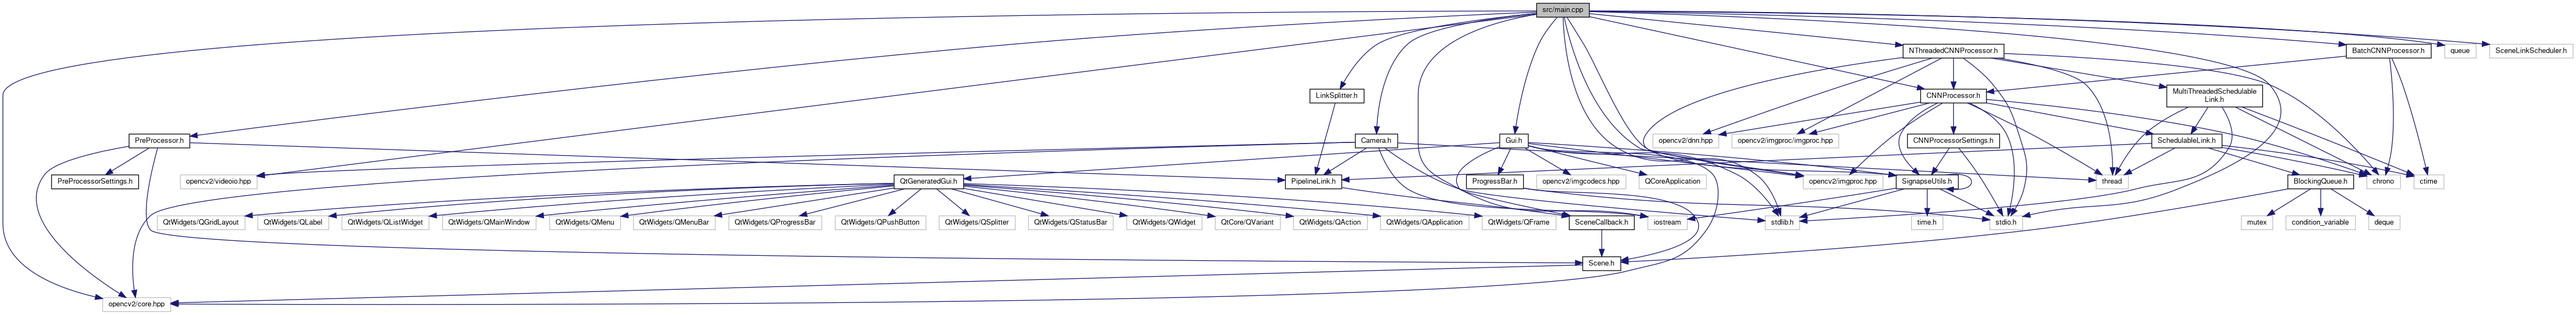
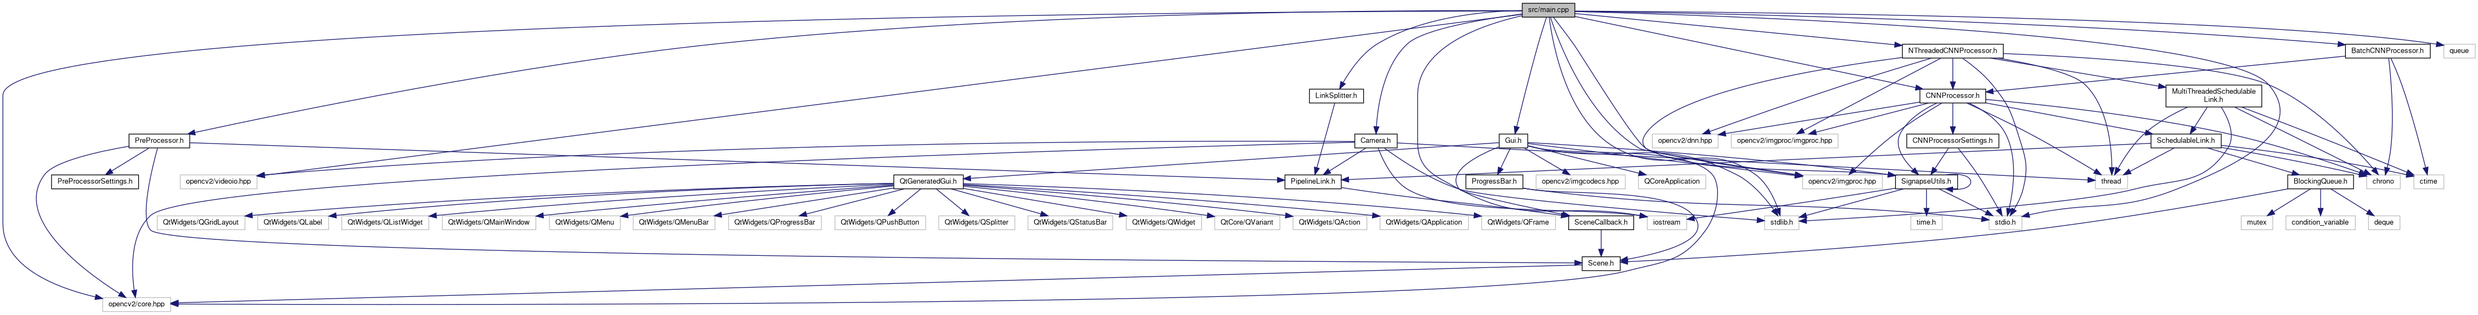
deploy: bf6fdfce21f02ea87e8fade446a89de14401fabb

diff --git a/html/main_8cpp_source.html b/html/main_8cpp_source.html
@@ -84,44 +84,43 @@ $(function() {
 <div class="line"><a id="l00011" name="l00011"></a><span class="lineno">   11</span><span class="preprocessor">#include &quot;stdlib.h&quot;</span></div>
 <div class="line"><a id="l00012" name="l00012"></a><span class="lineno">   12</span><span class="preprocessor">#include &quot;<a class="code" href="Gui_8h.html">Gui.h</a>&quot;</span></div>
 <div class="line"><a id="l00013" name="l00013"></a><span class="lineno">   13</span><span class="preprocessor">#include &quot;<a class="code" href="PreProcessor_8h.html">PreProcessor.h</a>&quot;</span></div>
-<div class="line"><a id="l00014" name="l00014"></a><span class="lineno">   14</span><span class="preprocessor">#include &quot;SceneLinkScheduler.h&quot;</span></div>
-<div class="line"><a id="l00015" name="l00015"></a><span class="lineno">   15</span><span class="preprocessor">#include &quot;<a class="code" href="SignapseUtils_8h.html">SignapseUtils.h</a>&quot;</span></div>
-<div class="line"><a id="l00016" name="l00016"></a><span class="lineno">   16</span><span class="preprocessor">#include &quot;<a class="code" href="LinkSplitter_8h.html">LinkSplitter.h</a>&quot;</span></div>
-<div class="line"><a id="l00017" name="l00017"></a><span class="lineno">   17</span><span class="preprocessor">#include &quot;<a class="code" href="NThreadedCNNProcessor_8h.html">NThreadedCNNProcessor.h</a>&quot;</span></div>
-<div class="line"><a id="l00018" name="l00018"></a><span class="lineno">   18</span><span class="preprocessor">#include &quot;<a class="code" href="BatchCNNProcessor_8h.html">BatchCNNProcessor.h</a>&quot;</span></div>
-<div class="line"><a id="l00019" name="l00019"></a><span class="lineno">   19</span> </div>
-<div class="line"><a id="l00020" name="l00020"></a><span class="lineno">   20</span><span class="keyword">using namespace </span>cv;</div>
-<div class="line"><a id="l00021" name="l00021"></a><span class="lineno">   21</span><span class="keyword">using namespace </span>std;</div>
-<div class="line"><a id="l00022" name="l00022"></a><span class="lineno">   22</span> </div>
-<div class="line"><a id="l00023" name="l00023"></a><span class="lineno"><a class="line" href="main_8cpp.html#a0ddf1224851353fc92bfbff6f499fa97">   23</a></span><span class="keywordtype">int</span> <a class="code hl_function" href="main_8cpp.html#a0ddf1224851353fc92bfbff6f499fa97">main</a>(<span class="keywordtype">int</span> argc, <span class="keywordtype">char</span>* argv[]){</div>
-<div class="line"><a id="l00024" name="l00024"></a><span class="lineno">   24</span>    QApplication app(argc, argv);</div>
-<div class="line"><a id="l00025" name="l00025"></a><span class="lineno">   25</span>    <a class="code hl_function" href="classSignapseUtils.html#a2aed985f49d9b7e870cd8933b5b947d4">SignapseUtils::welcomeMessage</a>();</div>
-<div class="line"><a id="l00026" name="l00026"></a><span class="lineno">   26</span>    </div>
-<div class="line"><a id="l00027" name="l00027"></a><span class="lineno">   27</span>    <span class="comment">//make pipeline components</span></div>
-<div class="line"><a id="l00028" name="l00028"></a><span class="lineno">   28</span>    <a class="code hl_struct" href="structPreProcessorSettings.html">PreProcessorSettings</a> preProcessorSettings;</div>
-<div class="line"><a id="l00029" name="l00029"></a><span class="lineno">   29</span>    <a class="code hl_class" href="classPreProcessor.html">PreProcessor</a> preProcessor(&amp;preProcessorSettings);</div>
-<div class="line"><a id="l00030" name="l00030"></a><span class="lineno">   30</span>    <a class="code hl_class" href="classLinkSplitter.html">LinkSplitter</a> linkSplitter;</div>
-<div class="line"><a id="l00031" name="l00031"></a><span class="lineno">   31</span>    <a class="code hl_struct" href="structCNNProcessorSettings.html">CNNProcessorSettings</a> cnnSettings;</div>
-<div class="line"><a id="l00032" name="l00032"></a><span class="lineno">   32</span>    <a class="code hl_class" href="classCNNProcessor.html">CNNProcessor</a> cnn(&amp;cnnSettings);</div>
-<div class="line"><a id="l00033" name="l00033"></a><span class="lineno">   33</span>    </div>
-<div class="line"><a id="l00034" name="l00034"></a><span class="lineno">   34</span>    <a class="code hl_class" href="classCamera.html">Camera</a> camera;</div>
-<div class="line"><a id="l00035" name="l00035"></a><span class="lineno">   35</span>    <a class="code hl_class" href="classGui.html">Gui</a> gui;</div>
-<div class="line"><a id="l00036" name="l00036"></a><span class="lineno">   36</span>    </div>
-<div class="line"><a id="l00037" name="l00037"></a><span class="lineno">   37</span>    camera.<a class="code hl_function" href="classPipelineLink.html#ac92d19e26202916992949573bc3577a3">RegisterCallback</a>(&amp;preProcessor);</div>
-<div class="line"><a id="l00038" name="l00038"></a><span class="lineno">   38</span>    preProcessor.<a class="code hl_function" href="classPipelineLink.html#ac92d19e26202916992949573bc3577a3">RegisterCallback</a>(&amp;linkSplitter);</div>
-<div class="line"><a id="l00039" name="l00039"></a><span class="lineno">   39</span>    linkSplitter.<a class="code hl_function" href="classPipelineLink.html#ac92d19e26202916992949573bc3577a3">RegisterCallback</a>(&amp;cnn);</div>
-<div class="line"><a id="l00040" name="l00040"></a><span class="lineno">   40</span>    linkSplitter.<a class="code hl_function" href="classLinkSplitter.html#a209d340b9f32d2abfef1fec944c05786">RegisterSecondaryCallback</a>(&amp;gui);</div>
-<div class="line"><a id="l00041" name="l00041"></a><span class="lineno">   41</span>    cnn.<a class="code hl_function" href="classPipelineLink.html#ac92d19e26202916992949573bc3577a3">RegisterCallback</a>(&amp;gui);</div>
-<div class="line"><a id="l00042" name="l00042"></a><span class="lineno">   42</span>    </div>
-<div class="line"><a id="l00043" name="l00043"></a><span class="lineno">   43</span>    cnn.<a class="code hl_function" href="classSchedulableLink.html#a8310129e5f23602a040ffba539d80677">Start</a>();</div>
-<div class="line"><a id="l00044" name="l00044"></a><span class="lineno">   44</span>    camera.<a class="code hl_function" href="classCamera.html#a758234ad0415d4072c69820c8e0f15a8">Start</a>();</div>
-<div class="line"><a id="l00045" name="l00045"></a><span class="lineno">   45</span> </div>
-<div class="line"><a id="l00046" name="l00046"></a><span class="lineno">   46</span>    gui.<a class="code hl_function" href="classGui.html#ad52cabd9e25e09e480e106a873e6ac3b">SetTask</a>(<span class="stringliteral">&quot;A&quot;</span>);</div>
-<div class="line"><a id="l00047" name="l00047"></a><span class="lineno">   47</span>    gui.<a class="code hl_function" href="classGui.html#ac76a8210e18720a6bd248c0f1425a738">SetVisible</a>(<span class="keyword">true</span>);</div>
-<div class="line"><a id="l00048" name="l00048"></a><span class="lineno">   48</span>    app.exec();</div>
-<div class="line"><a id="l00049" name="l00049"></a><span class="lineno">   49</span>    cin.get();</div>
-<div class="line"><a id="l00050" name="l00050"></a><span class="lineno">   50</span>}</div>
-<div class="line"><a id="l00051" name="l00051"></a><span class="lineno">   51</span> </div>
+<div class="line"><a id="l00014" name="l00014"></a><span class="lineno">   14</span><span class="preprocessor">#include &quot;<a class="code" href="SignapseUtils_8h.html">SignapseUtils.h</a>&quot;</span></div>
+<div class="line"><a id="l00015" name="l00015"></a><span class="lineno">   15</span><span class="preprocessor">#include &quot;<a class="code" href="LinkSplitter_8h.html">LinkSplitter.h</a>&quot;</span></div>
+<div class="line"><a id="l00016" name="l00016"></a><span class="lineno">   16</span><span class="preprocessor">#include &quot;<a class="code" href="NThreadedCNNProcessor_8h.html">NThreadedCNNProcessor.h</a>&quot;</span></div>
+<div class="line"><a id="l00017" name="l00017"></a><span class="lineno">   17</span><span class="preprocessor">#include &quot;<a class="code" href="BatchCNNProcessor_8h.html">BatchCNNProcessor.h</a>&quot;</span></div>
+<div class="line"><a id="l00018" name="l00018"></a><span class="lineno">   18</span> </div>
+<div class="line"><a id="l00019" name="l00019"></a><span class="lineno">   19</span><span class="keyword">using namespace </span>cv;</div>
+<div class="line"><a id="l00020" name="l00020"></a><span class="lineno">   20</span><span class="keyword">using namespace </span>std;</div>
+<div class="line"><a id="l00021" name="l00021"></a><span class="lineno">   21</span> </div>
+<div class="line"><a id="l00022" name="l00022"></a><span class="lineno"><a class="line" href="main_8cpp.html#a0ddf1224851353fc92bfbff6f499fa97">   22</a></span><span class="keywordtype">int</span> <a class="code hl_function" href="main_8cpp.html#a0ddf1224851353fc92bfbff6f499fa97">main</a>(<span class="keywordtype">int</span> argc, <span class="keywordtype">char</span>* argv[]){</div>
+<div class="line"><a id="l00023" name="l00023"></a><span class="lineno">   23</span>    QApplication app(argc, argv);</div>
+<div class="line"><a id="l00024" name="l00024"></a><span class="lineno">   24</span>    <a class="code hl_function" href="classSignapseUtils.html#a2aed985f49d9b7e870cd8933b5b947d4">SignapseUtils::welcomeMessage</a>();</div>
+<div class="line"><a id="l00025" name="l00025"></a><span class="lineno">   25</span>    </div>
+<div class="line"><a id="l00026" name="l00026"></a><span class="lineno">   26</span>    <span class="comment">//make pipeline components</span></div>
+<div class="line"><a id="l00027" name="l00027"></a><span class="lineno">   27</span>    <a class="code hl_struct" href="structPreProcessorSettings.html">PreProcessorSettings</a> preProcessorSettings;</div>
+<div class="line"><a id="l00028" name="l00028"></a><span class="lineno">   28</span>    <a class="code hl_class" href="classPreProcessor.html">PreProcessor</a> preProcessor(&amp;preProcessorSettings);</div>
+<div class="line"><a id="l00029" name="l00029"></a><span class="lineno">   29</span>    <a class="code hl_class" href="classLinkSplitter.html">LinkSplitter</a> linkSplitter;</div>
+<div class="line"><a id="l00030" name="l00030"></a><span class="lineno">   30</span>    <a class="code hl_struct" href="structCNNProcessorSettings.html">CNNProcessorSettings</a> cnnSettings;</div>
+<div class="line"><a id="l00031" name="l00031"></a><span class="lineno">   31</span>    <a class="code hl_class" href="classCNNProcessor.html">CNNProcessor</a> cnn(&amp;cnnSettings);</div>
+<div class="line"><a id="l00032" name="l00032"></a><span class="lineno">   32</span>    </div>
+<div class="line"><a id="l00033" name="l00033"></a><span class="lineno">   33</span>    <a class="code hl_class" href="classCamera.html">Camera</a> camera;</div>
+<div class="line"><a id="l00034" name="l00034"></a><span class="lineno">   34</span>    <a class="code hl_class" href="classGui.html">Gui</a> gui;</div>
+<div class="line"><a id="l00035" name="l00035"></a><span class="lineno">   35</span>    </div>
+<div class="line"><a id="l00036" name="l00036"></a><span class="lineno">   36</span>    camera.<a class="code hl_function" href="classPipelineLink.html#ac92d19e26202916992949573bc3577a3">RegisterCallback</a>(&amp;preProcessor);</div>
+<div class="line"><a id="l00037" name="l00037"></a><span class="lineno">   37</span>    preProcessor.<a class="code hl_function" href="classPipelineLink.html#ac92d19e26202916992949573bc3577a3">RegisterCallback</a>(&amp;linkSplitter);</div>
+<div class="line"><a id="l00038" name="l00038"></a><span class="lineno">   38</span>    linkSplitter.<a class="code hl_function" href="classPipelineLink.html#ac92d19e26202916992949573bc3577a3">RegisterCallback</a>(&amp;cnn);</div>
+<div class="line"><a id="l00039" name="l00039"></a><span class="lineno">   39</span>    linkSplitter.<a class="code hl_function" href="classLinkSplitter.html#a209d340b9f32d2abfef1fec944c05786">RegisterSecondaryCallback</a>(&amp;gui);</div>
+<div class="line"><a id="l00040" name="l00040"></a><span class="lineno">   40</span>    cnn.<a class="code hl_function" href="classPipelineLink.html#ac92d19e26202916992949573bc3577a3">RegisterCallback</a>(&amp;gui);</div>
+<div class="line"><a id="l00041" name="l00041"></a><span class="lineno">   41</span>    </div>
+<div class="line"><a id="l00042" name="l00042"></a><span class="lineno">   42</span>    cnn.<a class="code hl_function" href="classSchedulableLink.html#a8310129e5f23602a040ffba539d80677">Start</a>();</div>
+<div class="line"><a id="l00043" name="l00043"></a><span class="lineno">   43</span>    camera.<a class="code hl_function" href="classCamera.html#a758234ad0415d4072c69820c8e0f15a8">Start</a>();</div>
+<div class="line"><a id="l00044" name="l00044"></a><span class="lineno">   44</span> </div>
+<div class="line"><a id="l00045" name="l00045"></a><span class="lineno">   45</span>    gui.<a class="code hl_function" href="classGui.html#ad52cabd9e25e09e480e106a873e6ac3b">SetTask</a>(<span class="stringliteral">&quot;A&quot;</span>);</div>
+<div class="line"><a id="l00046" name="l00046"></a><span class="lineno">   46</span>    gui.<a class="code hl_function" href="classGui.html#ac76a8210e18720a6bd248c0f1425a738">SetVisible</a>(<span class="keyword">true</span>);</div>
+<div class="line"><a id="l00047" name="l00047"></a><span class="lineno">   47</span>    app.exec();</div>
+<div class="line"><a id="l00048" name="l00048"></a><span class="lineno">   48</span>    cin.get();</div>
+<div class="line"><a id="l00049" name="l00049"></a><span class="lineno">   49</span>}</div>
+<div class="line"><a id="l00050" name="l00050"></a><span class="lineno">   50</span> </div>
 <div class="ttc" id="aBatchCNNProcessor_8h_html"><div class="ttname"><a href="BatchCNNProcessor_8h.html">BatchCNNProcessor.h</a></div></div>
 <div class="ttc" id="aCNNProcessor_8h_html"><div class="ttname"><a href="CNNProcessor_8h.html">CNNProcessor.h</a></div></div>
 <div class="ttc" id="aCamera_8h_html"><div class="ttname"><a href="Camera_8h.html">Camera.h</a></div></div>
@@ -142,7 +141,7 @@ $(function() {
 <div class="ttc" id="aclassPreProcessor_html"><div class="ttname"><a href="classPreProcessor.html">PreProcessor</a></div><div class="ttdef"><b>Definition:</b> <a href="PreProcessor_8h_source.html#l00006">PreProcessor.h:6</a></div></div>
 <div class="ttc" id="aclassSchedulableLink_html_a8310129e5f23602a040ffba539d80677"><div class="ttname"><a href="classSchedulableLink.html#a8310129e5f23602a040ffba539d80677">SchedulableLink::Start</a></div><div class="ttdeci">void Start()</div><div class="ttdef"><b>Definition:</b> <a href="SchedulableLink_8cpp_source.html#l00024">SchedulableLink.cpp:24</a></div></div>
 <div class="ttc" id="aclassSignapseUtils_html_a2aed985f49d9b7e870cd8933b5b947d4"><div class="ttname"><a href="classSignapseUtils.html#a2aed985f49d9b7e870cd8933b5b947d4">SignapseUtils::welcomeMessage</a></div><div class="ttdeci">static void welcomeMessage()</div><div class="ttdef"><b>Definition:</b> <a href="SignapseUtils_8h_source.html#l00021">SignapseUtils.h:21</a></div></div>
-<div class="ttc" id="amain_8cpp_html_a0ddf1224851353fc92bfbff6f499fa97"><div class="ttname"><a href="main_8cpp.html#a0ddf1224851353fc92bfbff6f499fa97">main</a></div><div class="ttdeci">int main(int argc, char *argv[])</div><div class="ttdef"><b>Definition:</b> <a href="main_8cpp_source.html#l00023">main.cpp:23</a></div></div>
+<div class="ttc" id="amain_8cpp_html_a0ddf1224851353fc92bfbff6f499fa97"><div class="ttname"><a href="main_8cpp.html#a0ddf1224851353fc92bfbff6f499fa97">main</a></div><div class="ttdeci">int main(int argc, char *argv[])</div><div class="ttdef"><b>Definition:</b> <a href="main_8cpp_source.html#l00022">main.cpp:22</a></div></div>
 <div class="ttc" id="astructCNNProcessorSettings_html"><div class="ttname"><a href="structCNNProcessorSettings.html">CNNProcessorSettings</a></div><div class="ttdef"><b>Definition:</b> <a href="CNNProcessorSettings_8h_source.html#l00008">CNNProcessorSettings.h:8</a></div></div>
 <div class="ttc" id="astructPreProcessorSettings_html"><div class="ttname"><a href="structPreProcessorSettings.html">PreProcessorSettings</a></div><div class="ttdef"><b>Definition:</b> <a href="PreProcessorSettings_8h_source.html#l00007">PreProcessorSettings.h:7</a></div></div>
 </div><!-- fragment --></div><!-- contents -->

diff --git a/html/main_8cpp.html b/html/main_8cpp.html
@@ -84,7 +84,6 @@ $(function() {
 <code>#include &quot;stdlib.h&quot;</code><br />
 <code>#include &quot;<a class="el" href="Gui_8h_source.html">Gui.h</a>&quot;</code><br />
 <code>#include &quot;<a class="el" href="PreProcessor_8h_source.html">PreProcessor.h</a>&quot;</code><br />
-<code>#include &quot;SceneLinkScheduler.h&quot;</code><br />
 <code>#include &quot;<a class="el" href="SignapseUtils_8h_source.html">SignapseUtils.h</a>&quot;</code><br />
 <code>#include &quot;<a class="el" href="LinkSplitter_8h_source.html">LinkSplitter.h</a>&quot;</code><br />
 <code>#include &quot;<a class="el" href="NThreadedCNNProcessor_8h_source.html">NThreadedCNNProcessor.h</a>&quot;</code><br />
@@ -94,7 +93,7 @@ Include dependency graph for main.cpp:</div>
 <div class="dyncontent">
 <div class="center"><img src="main_8cpp__incl.png" border="0" usemap="#asrc_2main_8cpp" alt=""/></div>
 <map name="asrc_2main_8cpp" id="asrc_2main_8cpp">
-<area shape="rect" title=" " alt="" coords="2801,5,2897,32"/>
+<area shape="rect" title=" " alt="" coords="2776,5,2872,32"/>
 <area shape="rect" title=" " alt="" coords="187,543,311,569"/>
 <area shape="rect" title=" " alt="" coords="329,319,469,345"/>
 <area shape="rect" title=" " alt="" coords="3287,319,3433,345"/>
@@ -107,7 +106,6 @@ Include dependency graph for main.cpp:</div>
 <area shape="rect" href="SignapseUtils_8h.html" title=" " alt="" coords="3457,319,3570,345"/>
 <area shape="rect" href="Gui_8h.html" title=" " alt="" coords="2734,244,2786,271"/>
 <area shape="rect" href="PreProcessor_8h.html" title=" " alt="" coords="235,244,346,271"/>
-<area shape="rect" title=" " alt="" coords="4539,80,4691,107"/>
 <area shape="rect" href="LinkSplitter_8h.html" title=" " alt="" coords="2388,162,2487,189"/>
 <area shape="rect" href="NThreadedCNNProcessor_8h.html" title=" " alt="" coords="3469,80,3653,107"/>
 <area shape="rect" href="BatchCNNProcessor_8h.html" title=" " alt="" coords="4277,80,4432,107"/>
@@ -117,14 +115,14 @@ Include dependency graph for main.cpp:</div>
 <area shape="rect" href="Scene_8h.html" title=" " alt="" coords="2885,468,2955,495"/>
 <area shape="rect" title=" " alt="" coords="3013,244,3133,271"/>
 <area shape="rect" title=" " alt="" coords="3157,244,3352,271"/>
-<area shape="rect" title=" " alt="" coords="4315,319,4376,345"/>
+<area shape="rect" title=" " alt="" coords="4316,319,4377,345"/>
 <area shape="rect" href="SchedulableLink_8h.html" title=" " alt="" coords="3923,244,4051,271"/>
 <area shape="rect" href="CNNProcessorSettings_8h.html" title=" " alt="" coords="3477,244,3645,271"/>
-<area shape="rect" title=" " alt="" coords="4401,319,4455,345"/>
-<area shape="rect" href="BlockingQueue_8h.html" title=" " alt="" coords="4171,319,4291,345"/>
-<area shape="rect" title=" " alt="" coords="4318,393,4375,420"/>
-<area shape="rect" title=" " alt="" coords="4086,393,4143,420"/>
-<area shape="rect" title=" " alt="" coords="4167,393,4294,420"/>
+<area shape="rect" title=" " alt="" coords="4402,319,4457,345"/>
+<area shape="rect" href="BlockingQueue_8h.html" title=" " alt="" coords="4172,319,4292,345"/>
+<area shape="rect" title=" " alt="" coords="4319,393,4377,420"/>
+<area shape="rect" title=" " alt="" coords="4087,393,4145,420"/>
+<area shape="rect" title=" " alt="" coords="4169,393,4295,420"/>
 <area shape="rect" title=" " alt="" coords="3485,393,3542,420"/>
 <area shape="rect" title=" " alt="" coords="2988,319,3111,345"/>
 <area shape="rect" href="QtGeneratedGui_8h.html" title=" " alt="" coords="1630,319,1757,345"/>
@@ -184,35 +182,35 @@ Functions</h2></td></tr>
       </table>
 </div><div class="memdoc">
 
-<p class="definition">Definition at line <a class="el" href="main_8cpp_source.html#l00023">23</a> of file <a class="el" href="main_8cpp_source.html">main.cpp</a>.</p>
-<div class="fragment"><div class="line"><span class="lineno">   23</span>                                {</div>
-<div class="line"><span class="lineno">   24</span>    QApplication app(argc, argv);</div>
-<div class="line"><span class="lineno">   25</span>    <a class="code hl_function" href="classSignapseUtils.html#a2aed985f49d9b7e870cd8933b5b947d4">SignapseUtils::welcomeMessage</a>();</div>
-<div class="line"><span class="lineno">   26</span>    </div>
-<div class="line"><span class="lineno">   27</span>    <span class="comment">//make pipeline components</span></div>
-<div class="line"><span class="lineno">   28</span>    <a class="code hl_struct" href="structPreProcessorSettings.html">PreProcessorSettings</a> preProcessorSettings;</div>
-<div class="line"><span class="lineno">   29</span>    <a class="code hl_class" href="classPreProcessor.html">PreProcessor</a> preProcessor(&amp;preProcessorSettings);</div>
-<div class="line"><span class="lineno">   30</span>    <a class="code hl_class" href="classLinkSplitter.html">LinkSplitter</a> linkSplitter;</div>
-<div class="line"><span class="lineno">   31</span>    <a class="code hl_struct" href="structCNNProcessorSettings.html">CNNProcessorSettings</a> cnnSettings;</div>
-<div class="line"><span class="lineno">   32</span>    <a class="code hl_class" href="classCNNProcessor.html">CNNProcessor</a> cnn(&amp;cnnSettings);</div>
-<div class="line"><span class="lineno">   33</span>    </div>
-<div class="line"><span class="lineno">   34</span>    <a class="code hl_class" href="classCamera.html">Camera</a> camera;</div>
-<div class="line"><span class="lineno">   35</span>    <a class="code hl_class" href="classGui.html">Gui</a> gui;</div>
-<div class="line"><span class="lineno">   36</span>    </div>
-<div class="line"><span class="lineno">   37</span>    camera.<a class="code hl_function" href="classPipelineLink.html#ac92d19e26202916992949573bc3577a3">RegisterCallback</a>(&amp;preProcessor);</div>
-<div class="line"><span class="lineno">   38</span>    preProcessor.RegisterCallback(&amp;linkSplitter);</div>
-<div class="line"><span class="lineno">   39</span>    linkSplitter.<a class="code hl_function" href="classPipelineLink.html#ac92d19e26202916992949573bc3577a3">RegisterCallback</a>(&amp;cnn);</div>
-<div class="line"><span class="lineno">   40</span>    linkSplitter.<a class="code hl_function" href="classLinkSplitter.html#a209d340b9f32d2abfef1fec944c05786">RegisterSecondaryCallback</a>(&amp;gui);</div>
-<div class="line"><span class="lineno">   41</span>    cnn.RegisterCallback(&amp;gui);</div>
-<div class="line"><span class="lineno">   42</span>    </div>
-<div class="line"><span class="lineno">   43</span>    cnn.Start();</div>
-<div class="line"><span class="lineno">   44</span>    camera.<a class="code hl_function" href="classCamera.html#a758234ad0415d4072c69820c8e0f15a8">Start</a>();</div>
-<div class="line"><span class="lineno">   45</span> </div>
-<div class="line"><span class="lineno">   46</span>    gui.<a class="code hl_function" href="classGui.html#ad52cabd9e25e09e480e106a873e6ac3b">SetTask</a>(<span class="stringliteral">&quot;A&quot;</span>);</div>
-<div class="line"><span class="lineno">   47</span>    gui.<a class="code hl_function" href="classGui.html#ac76a8210e18720a6bd248c0f1425a738">SetVisible</a>(<span class="keyword">true</span>);</div>
-<div class="line"><span class="lineno">   48</span>    app.exec();</div>
-<div class="line"><span class="lineno">   49</span>    cin.get();</div>
-<div class="line"><span class="lineno">   50</span>}</div>
+<p class="definition">Definition at line <a class="el" href="main_8cpp_source.html#l00022">22</a> of file <a class="el" href="main_8cpp_source.html">main.cpp</a>.</p>
+<div class="fragment"><div class="line"><span class="lineno">   22</span>                                {</div>
+<div class="line"><span class="lineno">   23</span>    QApplication app(argc, argv);</div>
+<div class="line"><span class="lineno">   24</span>    <a class="code hl_function" href="classSignapseUtils.html#a2aed985f49d9b7e870cd8933b5b947d4">SignapseUtils::welcomeMessage</a>();</div>
+<div class="line"><span class="lineno">   25</span>    </div>
+<div class="line"><span class="lineno">   26</span>    <span class="comment">//make pipeline components</span></div>
+<div class="line"><span class="lineno">   27</span>    <a class="code hl_struct" href="structPreProcessorSettings.html">PreProcessorSettings</a> preProcessorSettings;</div>
+<div class="line"><span class="lineno">   28</span>    <a class="code hl_class" href="classPreProcessor.html">PreProcessor</a> preProcessor(&amp;preProcessorSettings);</div>
+<div class="line"><span class="lineno">   29</span>    <a class="code hl_class" href="classLinkSplitter.html">LinkSplitter</a> linkSplitter;</div>
+<div class="line"><span class="lineno">   30</span>    <a class="code hl_struct" href="structCNNProcessorSettings.html">CNNProcessorSettings</a> cnnSettings;</div>
+<div class="line"><span class="lineno">   31</span>    <a class="code hl_class" href="classCNNProcessor.html">CNNProcessor</a> cnn(&amp;cnnSettings);</div>
+<div class="line"><span class="lineno">   32</span>    </div>
+<div class="line"><span class="lineno">   33</span>    <a class="code hl_class" href="classCamera.html">Camera</a> camera;</div>
+<div class="line"><span class="lineno">   34</span>    <a class="code hl_class" href="classGui.html">Gui</a> gui;</div>
+<div class="line"><span class="lineno">   35</span>    </div>
+<div class="line"><span class="lineno">   36</span>    camera.<a class="code hl_function" href="classPipelineLink.html#ac92d19e26202916992949573bc3577a3">RegisterCallback</a>(&amp;preProcessor);</div>
+<div class="line"><span class="lineno">   37</span>    preProcessor.RegisterCallback(&amp;linkSplitter);</div>
+<div class="line"><span class="lineno">   38</span>    linkSplitter.<a class="code hl_function" href="classPipelineLink.html#ac92d19e26202916992949573bc3577a3">RegisterCallback</a>(&amp;cnn);</div>
+<div class="line"><span class="lineno">   39</span>    linkSplitter.<a class="code hl_function" href="classLinkSplitter.html#a209d340b9f32d2abfef1fec944c05786">RegisterSecondaryCallback</a>(&amp;gui);</div>
+<div class="line"><span class="lineno">   40</span>    cnn.RegisterCallback(&amp;gui);</div>
+<div class="line"><span class="lineno">   41</span>    </div>
+<div class="line"><span class="lineno">   42</span>    cnn.Start();</div>
+<div class="line"><span class="lineno">   43</span>    camera.<a class="code hl_function" href="classCamera.html#a758234ad0415d4072c69820c8e0f15a8">Start</a>();</div>
+<div class="line"><span class="lineno">   44</span> </div>
+<div class="line"><span class="lineno">   45</span>    gui.<a class="code hl_function" href="classGui.html#ad52cabd9e25e09e480e106a873e6ac3b">SetTask</a>(<span class="stringliteral">&quot;A&quot;</span>);</div>
+<div class="line"><span class="lineno">   46</span>    gui.<a class="code hl_function" href="classGui.html#ac76a8210e18720a6bd248c0f1425a738">SetVisible</a>(<span class="keyword">true</span>);</div>
+<div class="line"><span class="lineno">   47</span>    app.exec();</div>
+<div class="line"><span class="lineno">   48</span>    cin.get();</div>
+<div class="line"><span class="lineno">   49</span>}</div>
 <div class="ttc" id="aclassCNNProcessor_html"><div class="ttname"><a href="classCNNProcessor.html">CNNProcessor</a></div><div class="ttdoc">CNNProcessor class.</div><div class="ttdef"><b>Definition:</b> <a href="CNNProcessor_8h_source.html#l00021">CNNProcessor.h:21</a></div></div>
 <div class="ttc" id="aclassCamera_html"><div class="ttname"><a href="classCamera.html">Camera</a></div><div class="ttdoc">Camera class which inherits from Reel.</div><div class="ttdef"><b>Definition:</b> <a href="Camera_8h_source.html#l00015">Camera.h:15</a></div></div>
 <div class="ttc" id="aclassCamera_html_a758234ad0415d4072c69820c8e0f15a8"><div class="ttname"><a href="classCamera.html#a758234ad0415d4072c69820c8e0f15a8">Camera::Start</a></div><div class="ttdeci">void Start()</div><div class="ttdoc">Member function for starting video capturing thread.</div><div class="ttdef"><b>Definition:</b> <a href="Camera_8cpp_source.html#l00031">Camera.cpp:31</a></div></div>
